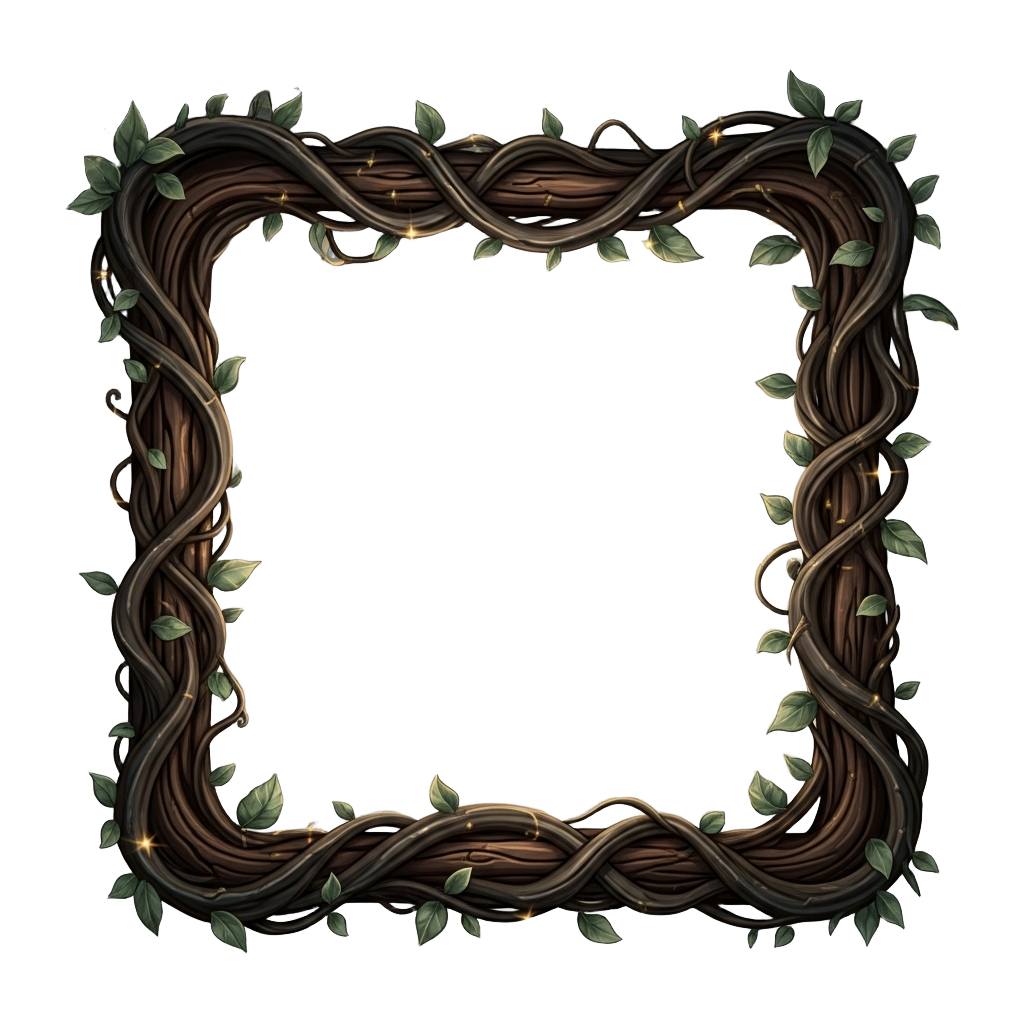
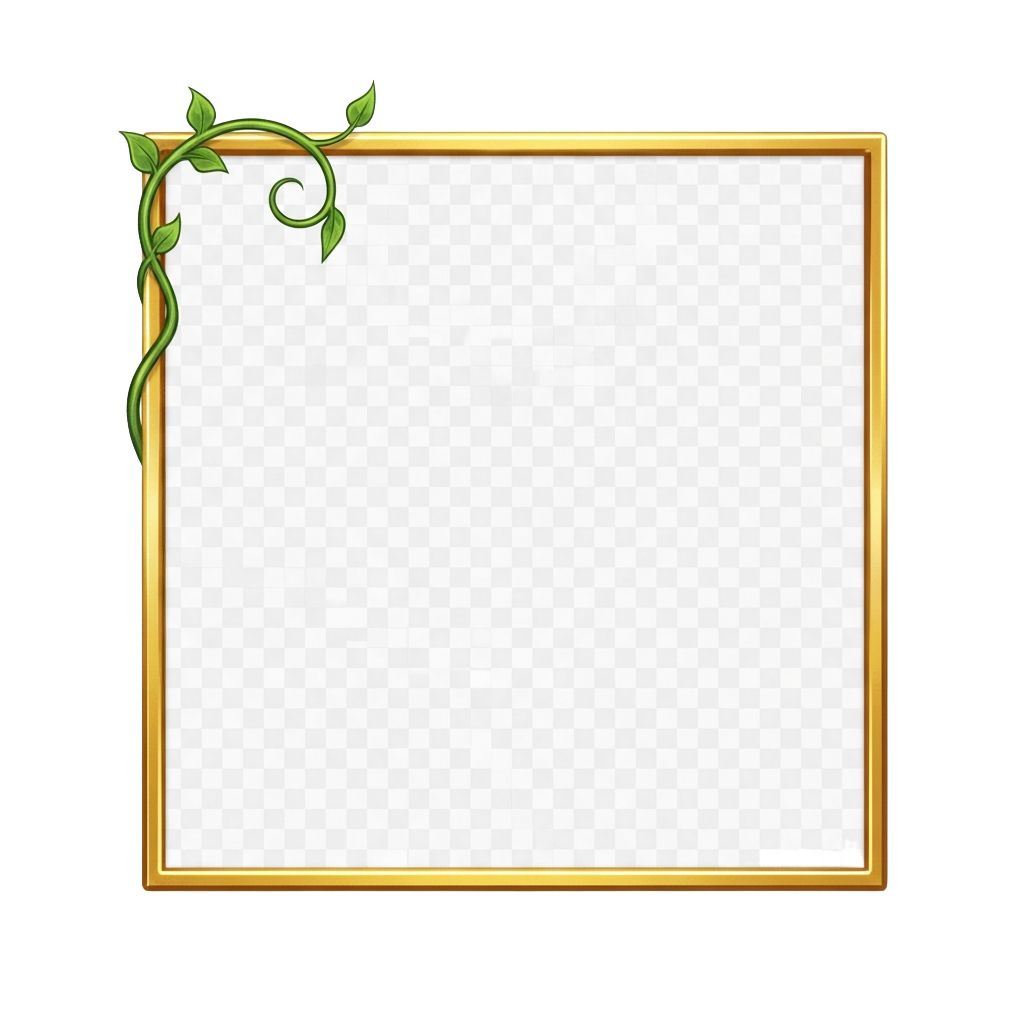
Update profile picture frame with a new design and better positioning
Modify the profile frame image to a thin gold border with vine accents and adjust its size and positioning in TopBar.tsx for a snug fit around the profile picture.

Replit-Commit-Author: Agent
Replit-Commit-Session-Id: 58c1bff3-5cfa-48e6-85da-fb1bfe29cfab
Replit-Commit-Checkpoint-Type: full_checkpoint
Replit-Commit-Event-Id: 89da9f87-f181-4c08-a15d-d9c487afdde2
Replit-Commit-Screenshot-Url: https://storage.googleapis.com/screenshot-production-us-central1/04380d3b-f3f5-4699-a9be-ec71209f7dd3/58c1bff3-5cfa-48e6-85da-fb1bfe29cfab/4ACI7L6
Replit-Helium-Checkpoint-Created: true

diff --git a/client/src/components/TopBar.tsx b/client/src/components/TopBar.tsx
@@ -48,8 +48,8 @@ export default function TopBar({ user, onProfileClick, onUserUpdate, hideHome }:
                 style={{
                   top: "50%",
                   left: "50%",
-                  width: "140%",
-                  height: "140%",
+                  width: "120%",
+                  height: "120%",
                   transform: "translate(-50%, -50%)",
                   objectFit: "contain",
                   filter: "drop-shadow(0 2px 6px rgba(0,0,0,0.5))",